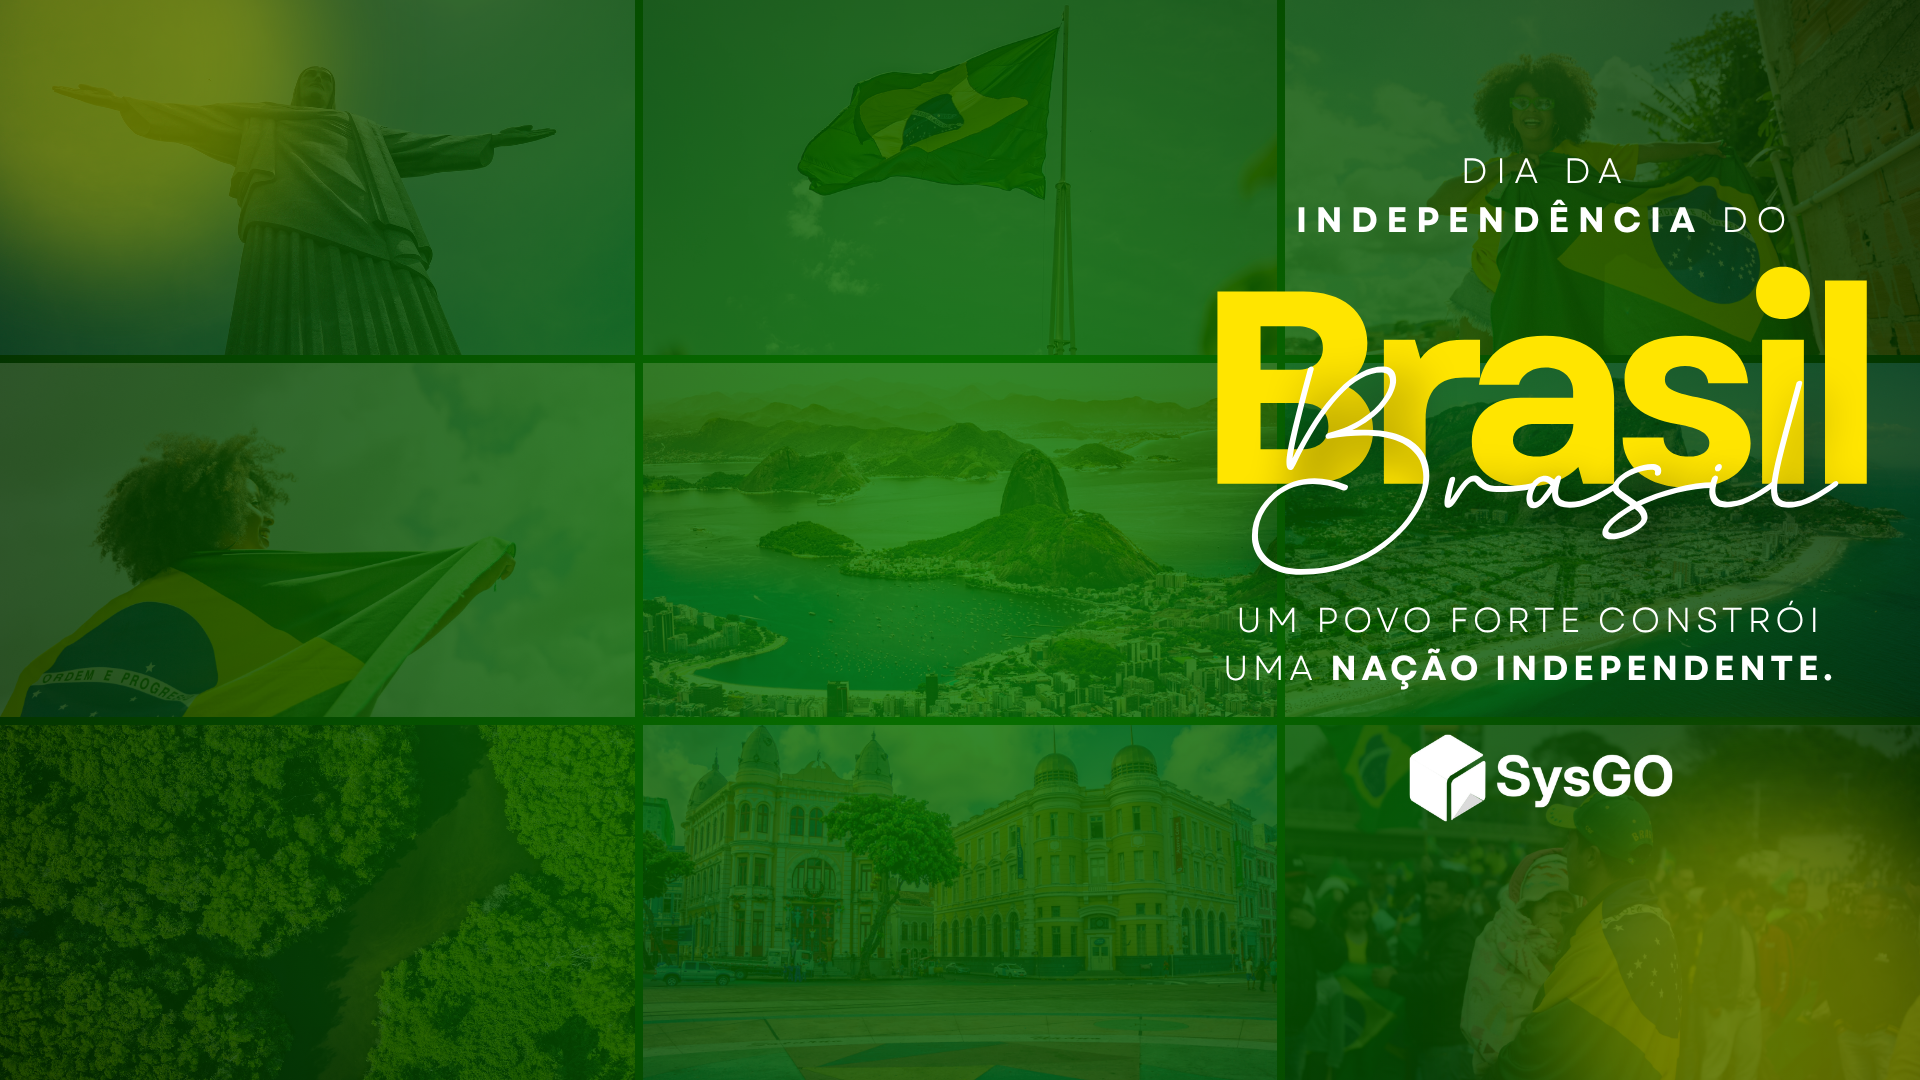
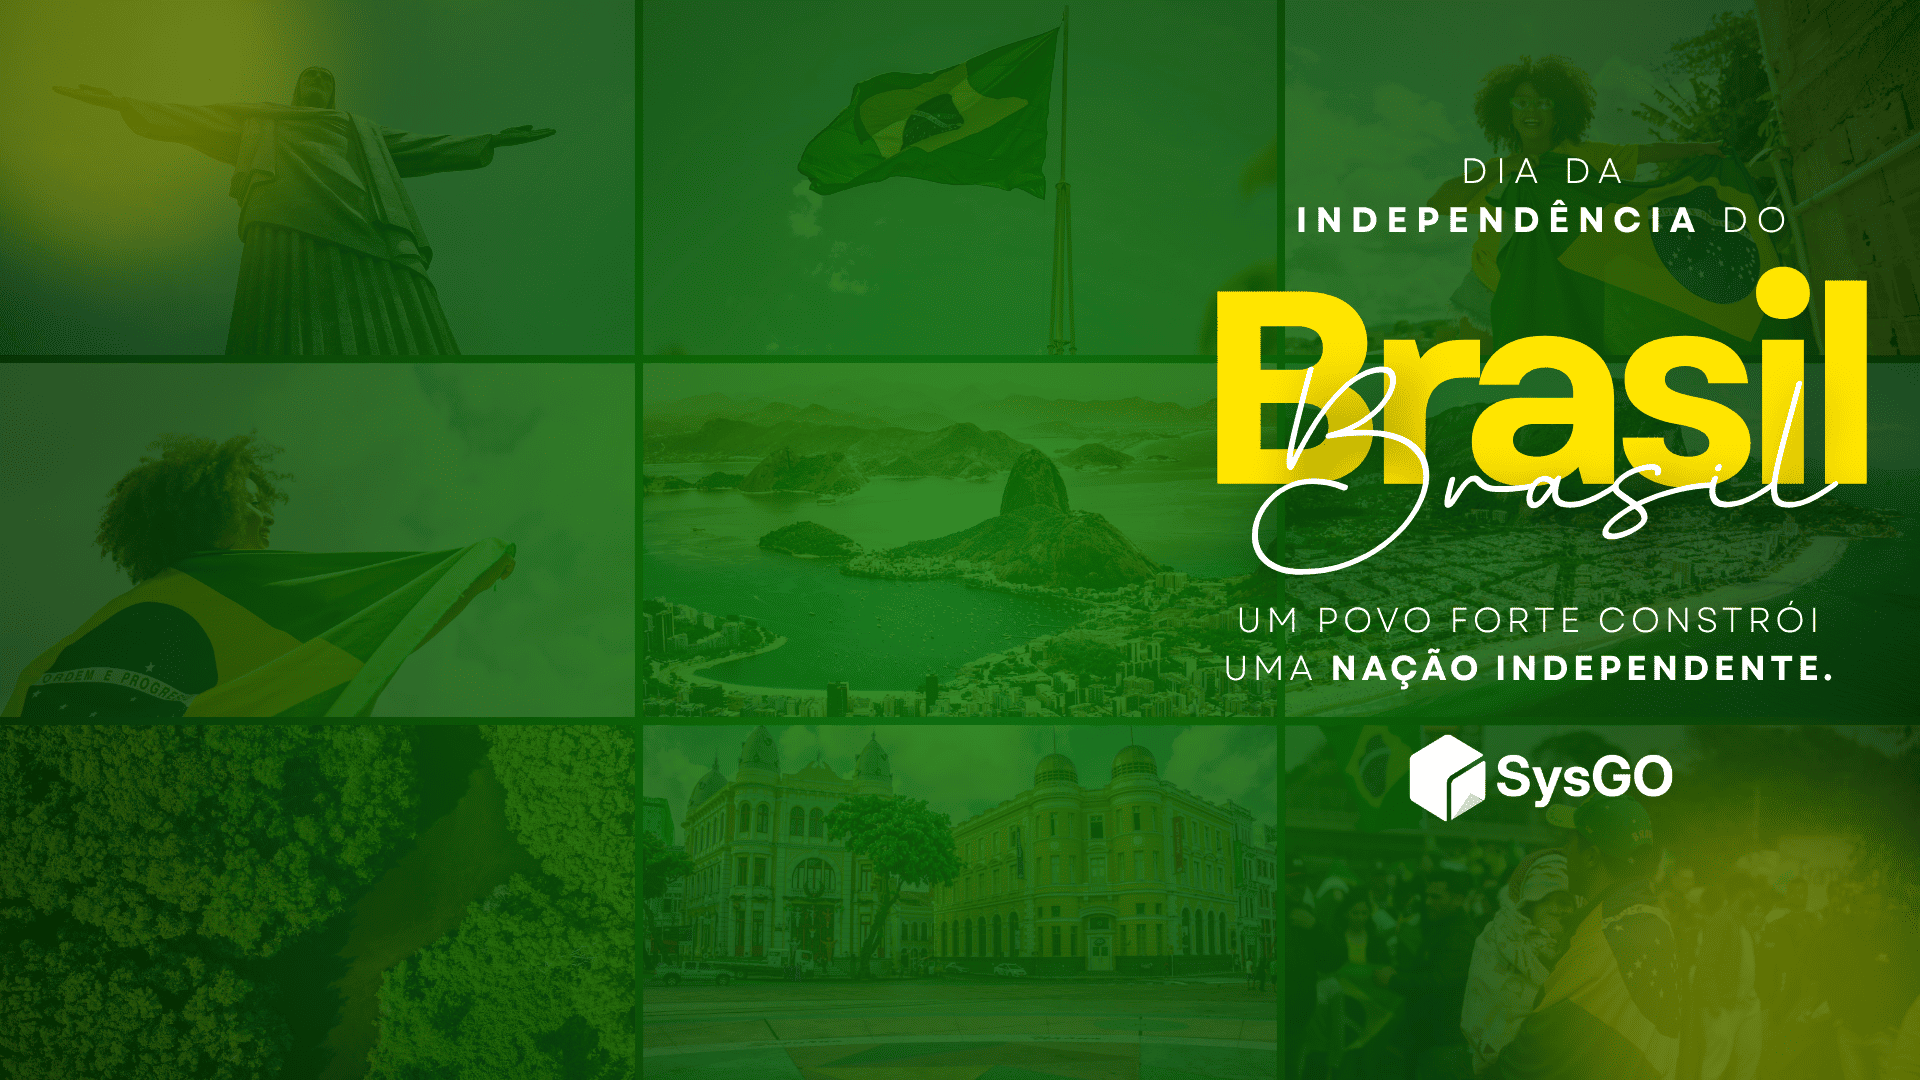
Comprimeindo imagens

diff --git a/functions/ads.js b/functions/ads.js
@@ -1,7 +1,7 @@
 export const ads = [
     {
         id: 1,
-        image: "/images/imagem1.png",
+        image: "/images/instagram_sysgo.png",
         url: "https://instagram.com/sysgosolucoes/",
         weight: 1,                // quanto maior, mais aparece
         priority: 1,              // 1 = normal, 2 = destaque
